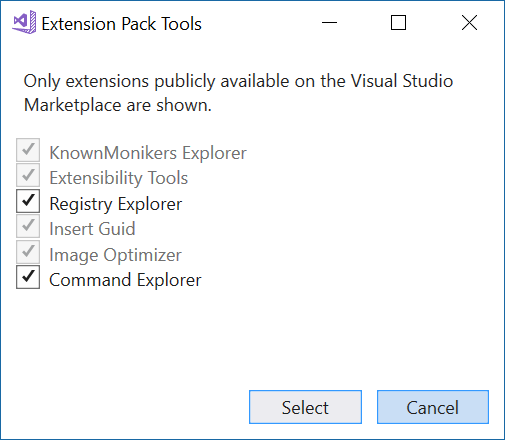
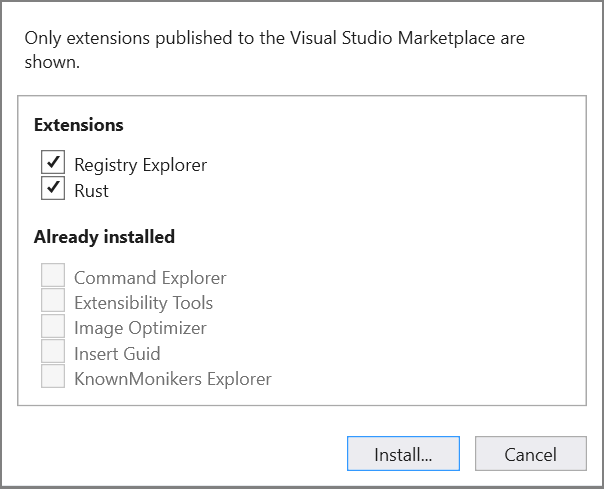
Various updates

Changed region(s): [[0.0, 0.0, 1.0, 1.0]]

diff --git a/src/Importer/ImportWindow.xaml b/src/Importer/ImportWindow.xaml
@@ -6,7 +6,7 @@
              xmlns:local="clr-namespace:ExtensionManager.Importer"
              mc:Ignorable="d" 
              local:VsTheme.UseVsTheme="True"
-             Height="320" MaxHeight="700" Width="400" ShowInTaskbar="False" WindowStartupLocation="CenterOwner" SizeToContent="Height" WindowStyle="None" AllowsTransparency="True">
+             Height="320" MaxHeight="400" Width="400" ShowInTaskbar="False" WindowStartupLocation="CenterOwner" SizeToContent="Height" WindowStyle="None" AllowsTransparency="True">
     <Grid Margin="10 10 10 10">
         <Grid.RowDefinitions>
             <RowDefinition Height="auto" />
@@ -19,11 +19,11 @@
                 <AccessText TextWrapping="Wrap" Text="Only extensions published to the Visual Studio Marketplace are shown."/>
             </Label.Content>
         </Label>
-        <ScrollViewer Grid.Row="1" Margin="0 0 0 20" VerticalScrollBarVisibility="Auto" HorizontalScrollBarVisibility="Hidden">
-            <Border BorderThickness="1" BorderBrush="DarkGray">
+        <Border Grid.Row="1" Margin="0 0 0 20" BorderThickness="1" BorderBrush="DarkGray">
+            <ScrollViewer VerticalScrollBarVisibility="Auto" HorizontalScrollBarVisibility="Hidden">
                 <StackPanel Name="list" Orientation="Vertical" Margin="5,5,5,10"/>
-            </Border>
-        </ScrollViewer>
+            </ScrollViewer>
+        </Border>
 
         <StackPanel Grid.Row="2" Orientation="Horizontal" HorizontalAlignment="Right">
             <Button Content="Select" Name="btnOk" IsDefault="true" Click="Button_Click" Margin="0 0 0 0"/>

diff --git a/src/Commands/ExportSolutionCommand.cs b/src/Commands/ExportSolutionCommand.cs
@@ -48,6 +48,13 @@ namespace ExtensionManager
             ThreadHelper.ThrowIfNotOnUIThread();
 
             var dte = ServiceProvider.GetService(typeof(DTE)) as DTE;
+
+            if (string.IsNullOrEmpty(dte.Solution?.FileName))
+            {
+                ShowMessageBox("The solution must be saved in order to manage solution extensions.");
+                return;
+            }
+
             string fileName = Path.ChangeExtension(dte.Solution.FileName, ".vsext");
 
             try
@@ -78,15 +85,20 @@ namespace ExtensionManager
             }
             catch (Exception ex)
             {
-                VsShellUtilities.ShowMessageBox(
+                ShowMessageBox(ex.Message);
+            }
+        }
+
+        private void ShowMessageBox(string message)
+        {
+            VsShellUtilities.ShowMessageBox(
                     ServiceProvider,
-                    ex.Message,
+                    message,
                     Vsix.Name,
                     OLEMSGICON.OLEMSGICON_WARNING,
                     OLEMSGBUTTON.OLEMSGBUTTON_OK,
                     OLEMSGDEFBUTTON.OLEMSGDEFBUTTON_FIRST
                 );
-            }
         }
 
         private bool TryGetFilePath(out string filePath)

diff --git a/README.md b/README.md
@@ -6,9 +6,13 @@
 
 This extension allows you to export a list of extensions and importing them back into any instance of VS 2017.
 
+![Tools menu](art/menu_tools.png)
+
 ## Export
 
-![Tools menu](art/menu_tools.png)
+A dialog appears that lets you select which extensions you wish to export.
+
+![Export](art/export.png)
 
 The output is a JSON file with an .vsext file extension looking like this:
 
@@ -43,6 +47,19 @@ Clicking the import button prompts you to select a .vsext file. Doing that will 
 Before showing the list it will verify that the extensions exist on the Marketplace and that can take a few seconds.
 
 Clicking the **Select** button in the dialog will start the VSIX Installer in a separate process and you can follow the normal install flow from there.
+
+## Manage solution extensions
+This allows you to specify which extensions needed to work on any given solution. When a developer opens the solution and doesn't have one or more of the extensions installed, they are prompted to install them.
+
+Right-click the solution to manage the extensions.
+
+![Context menu](art/context-menu.png)
+
+This will show this dialog where you can pick wich of your extensions to associate with the solution.
+
+![Manage solution extensions](art/manage-solution-extensions.png)
+
+When clicking **Select** a .vsext file will be created and placed next to the solution file (.sln). You should commit the generated .vsext file to souce control.
 
 ## License
 [Apache 2.0](LICENSE)
